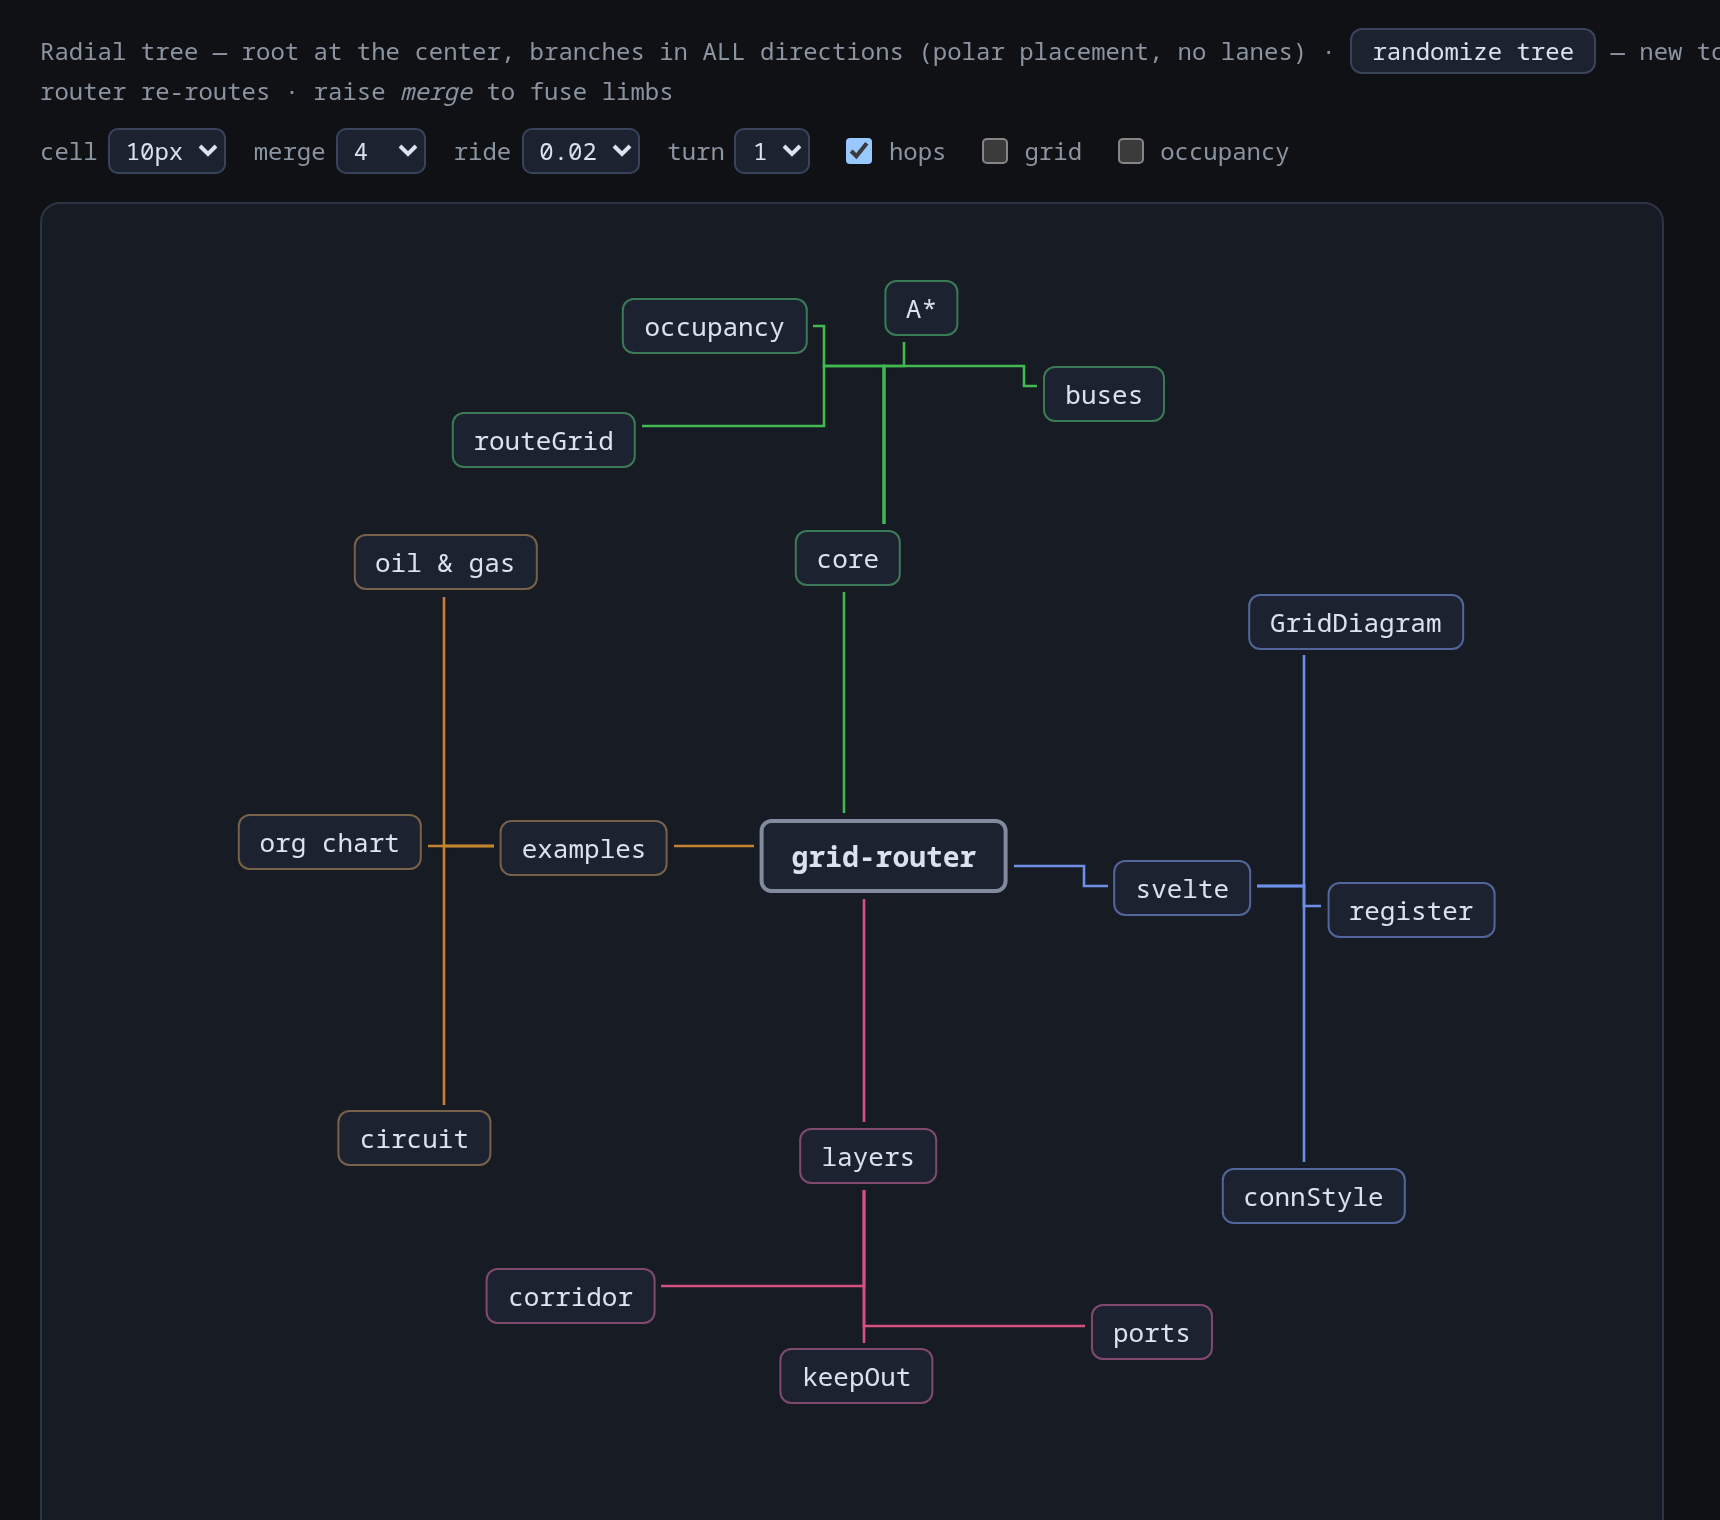
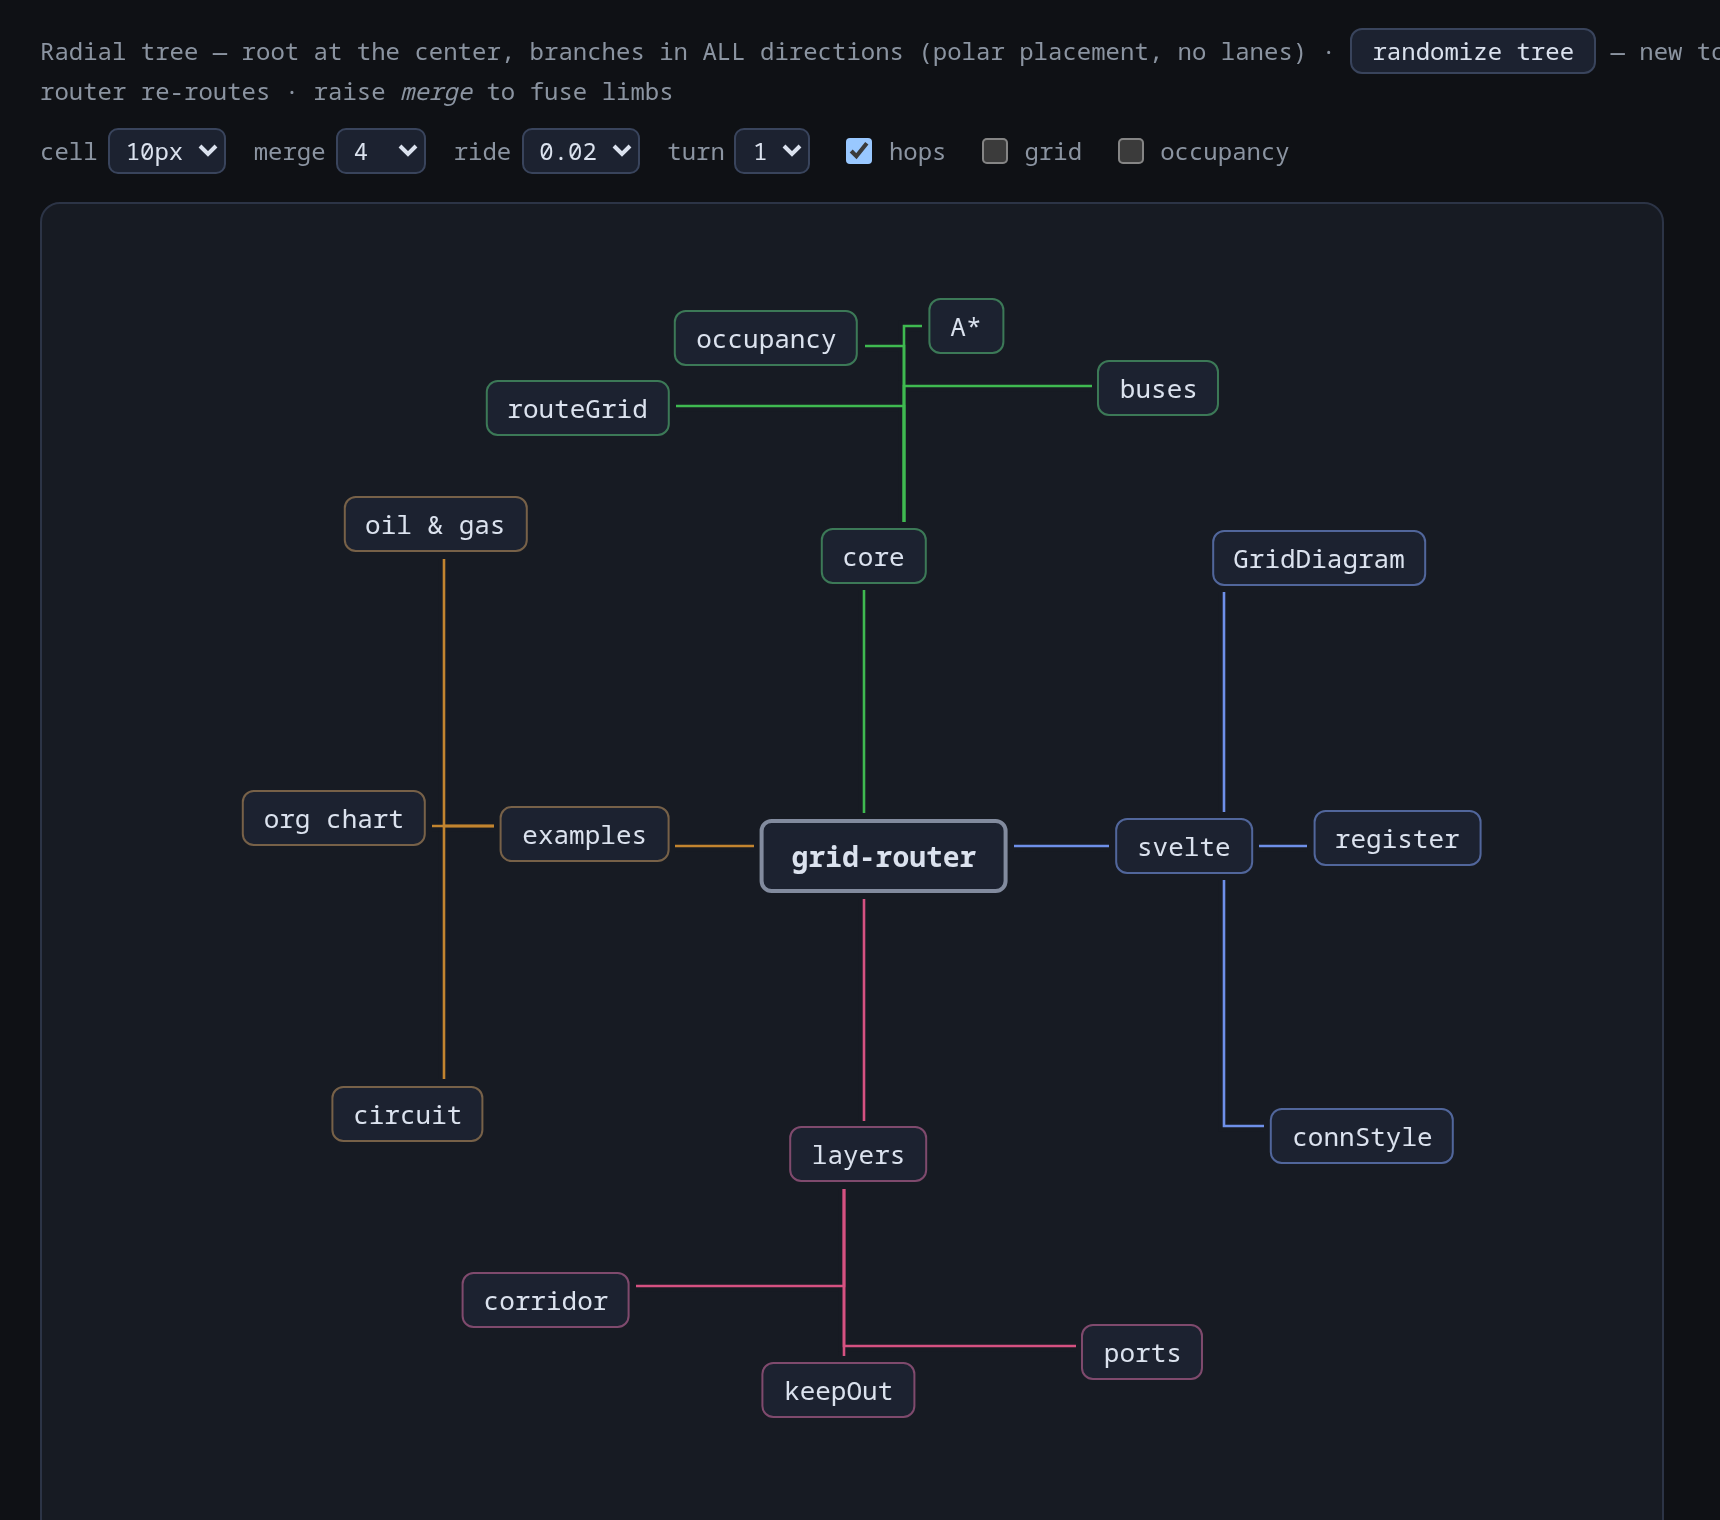
examples: color follows the bus — split buses along color groups (radial limbs, org departments)

diff --git a/examples/src/RadialTree.svelte b/examples/src/RadialTree.svelte
@@ -38,7 +38,9 @@
 			const bid = `b${i}`;
 			const p = polar(R1, a);
 			nodes.push({ id: bid, label: branchLabel, x: p.x, y: p.y, branch: i });
-			edges.push({ id: `e-${bid}`, source: 'root', target: bid });
+			// bus per LIMB: color follows the bus — root edges must not share one
+			// bus, or differently-colored limbs would merge trunks
+			edges.push({ id: `e-${bid}`, source: 'root', target: bid, bus: bid });
 			// leaves fan inside the branch's angular window on the outer ring
 			const win = ((2 * Math.PI) / N) * 0.72;
 			leaves.forEach((leafLabel, j) => {
@@ -93,12 +95,13 @@
 	// hover: an edge lights its bus; a node lights every bus touching it
 	let hoveredBus = $state<string | undefined>(undefined);
 	let hoveredNode = $state<string | undefined>(undefined);
+	const busKey = (e: GridEdge) => `${e.source}|${e.bus ?? ''}`;
 	const activeBuses = $derived.by(() => {
 		const s = new Set<string>();
 		if (hoveredBus) s.add(hoveredBus);
 		else if (hoveredNode) {
 			for (const e of tree.edges) {
-				if (e.source === hoveredNode || e.target === hoveredNode) s.add(`${e.source}|`);
+				if (e.source === hoveredNode || e.target === hoveredNode) s.add(busKey(e));
 			}
 		}
 		return s;
@@ -108,7 +111,7 @@
 		const s = new Set<string>();
 		if (hoveredNode) s.add(hoveredNode);
 		for (const e of tree.edges) {
-			if (activeBuses.has(`${e.source}|`)) {
+			if (activeBuses.has(busKey(e))) {
 				s.add(e.source);
 				s.add(e.target);
 			}

diff --git a/examples/src/OrgChart.svelte b/examples/src/OrgChart.svelte
@@ -49,8 +49,15 @@
 		sales: '#c2842f'
 	};
 	const people = new Map(LEVELS.flat().map((p) => [p.id, p]));
+	// bus per (manager, department): color follows the bus — the CEO's lines to
+	// three differently-colored VPs must not share one trunk
 	const edges: GridEdge[] = Object.entries(REPORTS).flatMap(([mgr, reports]) =>
-		reports.map((r) => ({ id: `${mgr}-${r}`, source: mgr, target: r }))
+		reports.map((r) => ({
+			id: `${mgr}-${r}`,
+			source: mgr,
+			target: r,
+			bus: people.get(r)?.dept ?? ''
+		}))
 	);
 
 	// knobs (example defaults)
@@ -66,12 +73,13 @@
 	// and manager
 	let hoveredBus = $state<string | undefined>(undefined);
 	let hoveredNode = $state<string | undefined>(undefined);
+	const busKey = (e: GridEdge) => `${e.source}|${e.bus ?? ''}`;
 	const activeBuses = $derived.by(() => {
 		const s = new Set<string>();
 		if (hoveredBus) s.add(hoveredBus);
 		else if (hoveredNode) {
 			for (const e of edges) {
-				if (e.source === hoveredNode || e.target === hoveredNode) s.add(`${e.source}|`);
+				if (e.source === hoveredNode || e.target === hoveredNode) s.add(busKey(e));
 			}
 		}
 		return s;
@@ -81,7 +89,7 @@
 		const s = new Set<string>();
 		if (hoveredNode) s.add(hoveredNode);
 		for (const e of edges) {
-			if (activeBuses.has(`${e.source}|`)) {
+			if (activeBuses.has(busKey(e))) {
 				s.add(e.source);
 				s.add(e.target);
 			}

diff --git a/README.md b/README.md
@@ -27,7 +27,9 @@ the chips**.
   a bus seed their search from every cell the bus already routed (cost ~0), so
   branches leave the trunk at the optimal point. `exitCost` prices opening a
   *new* trunk out of a source: raise it to force merges even over shorter
-  direct paths.
+  direct paths. **Color follows the bus**: a bus shares geometry, so every
+  edge in it should render the same color — if you color per target, split
+  the buses along the same lines (`bus: colorGroupOf(target)`).
 - **Endpoints are exclusive** — two buses never share a start/goal cell, so
   stubs and arrowheads never stack.
 - **Nothing is dropped** — if a dense node row walls the grid off, a desperate
